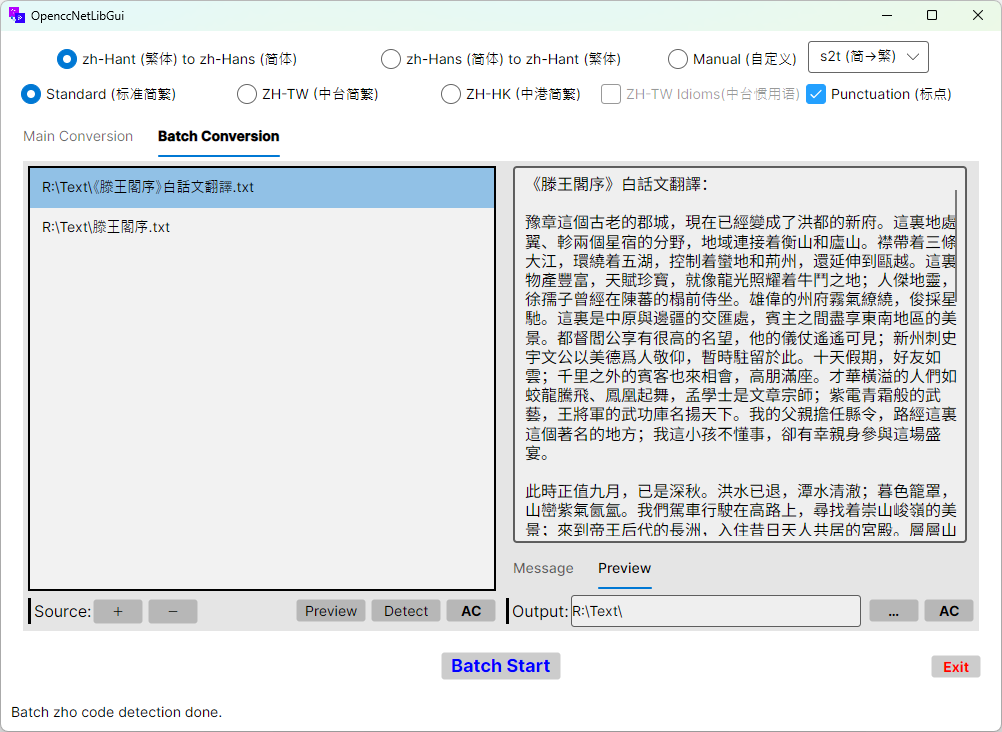
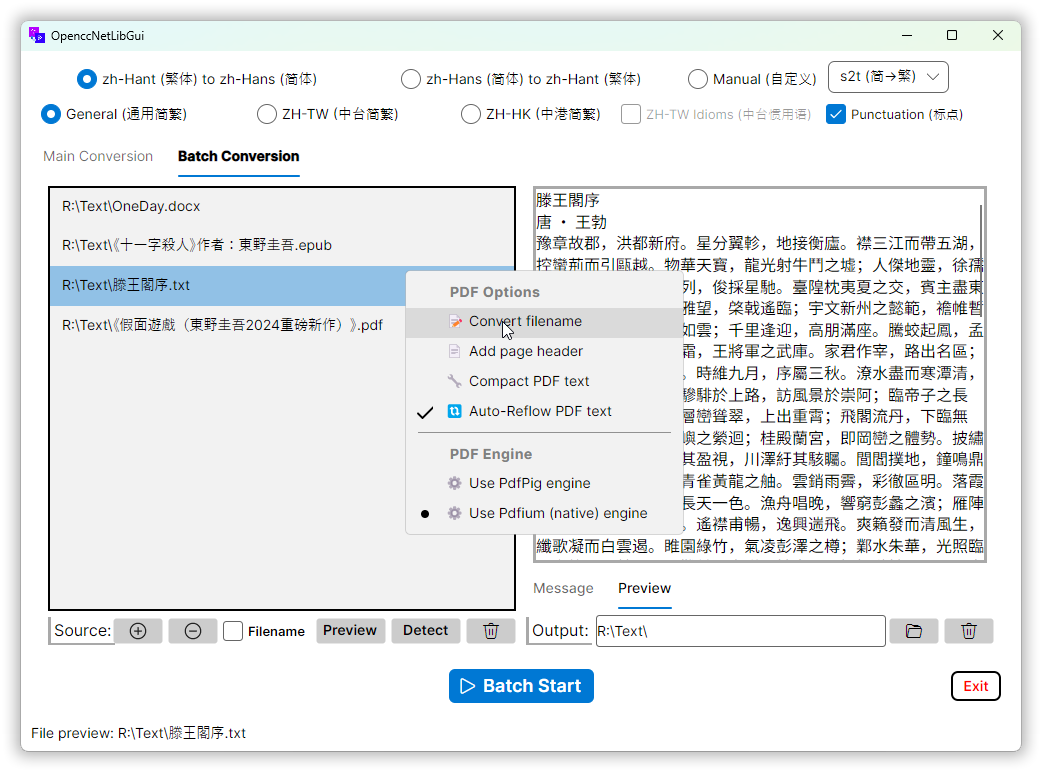
Update README.md

diff --git a/README.md b/README.md
@@ -95,13 +95,39 @@ Download the latest version of **OpenccNetLibGui** for your platform:
   Reflowed text should be treated as a **draft-quality starting point**, and users are encouraged to perform **manual
   review and formatting** if the content is intended for editing, distribution, or publication.
 
+---
+
 ## Dependencies
 
-- [Avalonia](https://avaloniaui.net/): Cross-platform .NET UI framework.
-- [AvaloniaEdit](https://github.com/AvaloniaUI/AvaloniaEdit): Text editor for Avalonia with virtualization support.
-- [OpenccNetLib](https://github.com/laisuk/OpenccNet): .NET library for conversions between Traditional and Simplified
-  Chinese.
-- [Newtonsoft.Json](https://www.newtonsoft.com/json): High-performance JSON framework for .NET.
+- **[Avalonia](https://avaloniaui.net/)**  
+  Cross-platform .NET UI framework used to build the application’s user interface.
+
+- **[AvaloniaEdit](https://github.com/AvaloniaUI/AvaloniaEdit)**  
+  A performant text editor control with syntax-highlighting, line numbers, and virtualization support.
+
+- **[OpenccNetLib](https://github.com/laisuk/OpenccNet)**  
+  Core conversion engine providing optimized OpenCC dictionary handling, FMM segmentation,  
+  Jieba integration, and multi-stage dictionary pipelines for Simplified/Traditional conversion.
+
+- **[Newtonsoft.Json](https://www.newtonsoft.com/json)**  
+  High-performance JSON serialization/deserialization library used for settings, layout recovery,  
+  and application configuration files.
+
+- **[UglyToad.PdfPig](https://github.com/UglyToad/PdfPig)**  
+  A fully managed PDF text extraction library used for:
+    - Parsing PDF structure
+    - Extracting raw Unicode text
+    - Fallback extraction when Pdfium is unavailable  
+      Ideal for CPU-only scenarios or when using a 100% managed dependency chain.
+
+- **Pdfium (native library + .NET binding)**  
+  High-performance native PDF rendering & text extraction engine used for:
+    - Faster page loading on large PDFs
+    - More accurate CJK character extraction
+    - Improved handling of rotated text, clipped glyphs, and embedded fonts  
+      Provides the “fast mode” when users choose **Pdfium** in PDF Engine settings.
+
+---
 
 ## Getting Started
 
@@ -140,8 +166,9 @@ dotnet run
 ### Single Mode
 
 ![image01](./Assets/image01.png)
+![image04](./Assets/image04.png)
 
-Support most **text base** file types.
+Support most **text base** file types and **Text-Embedded PDF documents**.
 
 1. Paste the text or open a file you wish to convert (file/text drag and drop are supported on Windows and macOS).
 2. Select the desired conversion configuration (e.g., Simplified to Traditional).
@@ -154,14 +181,24 @@ Support most **text base** file types.
 ![image02](./Assets/image02.png)
 ![image03](./Assets/image03.png)
 
-Support most **text base** file types, **Office documents** (`.docx`, `.xlsx`, `.pptx`, `.odt`, `.ods`, `.odp`) and
-EPUB (`.epub`).
+Support most **text base** file types, **Office documents** (`.docx`, `.xlsx`, `.pptx`, `.odt`, `.ods`, `.odp`), EPUB (
+`.epub`) and PDF (`.pdf`).
 
 1. Select or drag file(s) into the source list box (File(s), drag and drop currently only supported on Windows and
    macOS).
 2. Select the desired conversion configuration.
 3. Set the output folder.
-4. Click the **Batch Start** button to begin batch conversion.
+4. For **PDF document** conversion, **right-click** List Box to set `PDF Options`. (`PDF engine`, `add page header`,
+   `auto-reflow CJK text` etc.)
+5. Click the **Batch Start** button to begin batch conversion.
+
+### Dark Theme Mode
+
+![image05](./Assets/image05.png)
+
+`OpenccNetLibGui` is **Dark Theme Mode** friendly.
+
+---
 
 ### Custom Dictionary
 
@@ -184,7 +221,7 @@ Options are:
 
 ### Custom Chinese Language in UI Settings (繁體界面 / 简体界面)
 
-![image04](./Assets/image04.png)
+![image06](./Assets/image06.png)
 
 Custom Chinese Language in UI can be set in `LanguageSettings.json`:
 
@@ -212,8 +249,18 @@ This project is licensed under the MIT License. See the [LICENSE](./LICENSE) fil
 
 ## Acknowledgements
 
-- [OpenCC](https://github.com/BYVoid/OpenCC) for the Chinese text conversion lexicon.
-- [OpenccNet](https://github.com/laisuk/OpenccNet) for the .NET Chinese conversion library.
-- [Avalonia](https://avaloniaui.net/) for the cross-platform UI framework.
-- [AvaloniaEdit](https://github.com/AvaloniaUI/AvaloniaEdit) for the text editor with virtualization.
-- [Newtonsoft.Json](https://www.newtonsoft.com/json) for JSON parsing.
+- **[OpenCC](https://github.com/BYVoid/OpenCC)**  
+  For providing the high-quality Chinese conversion lexicons.
+- **[OpenccNet](https://github.com/laisuk/OpenccNet)**  
+  For the optimized .NET implementation of OpenCC used as the core engine.
+- **[Avalonia](https://avaloniaui.net/)**  
+  For the modern, cross-platform UI framework powering the application.
+- **[AvaloniaEdit](https://github.com/AvaloniaUI/AvaloniaEdit)**  
+  For the performant text editor component with line numbers and virtualization.
+- **[Newtonsoft.Json](https://www.newtonsoft.com/json)**  
+  For the robust and flexible JSON serialization and configuration handling.
+- **[PdfPig](https://github.com/UglyToad/PdfPig)**  
+  For the fully-managed PDF text extraction engine used in the standard extraction mode.
+- **Pdfium (native library + .NET bindings)**  
+  For providing high-performance PDF rendering and fast CJK text extraction in Pdfium mode.
+
